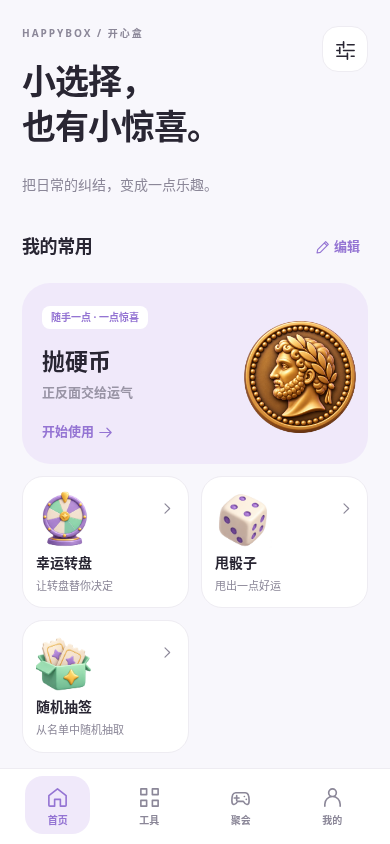
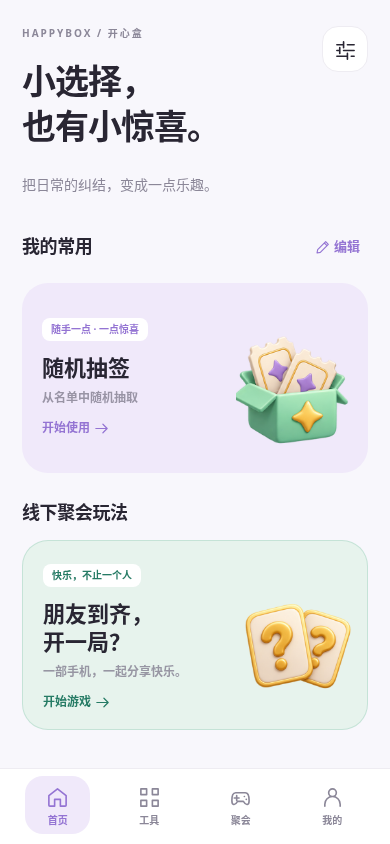
Focus home on one favorite and a prominent party card

diff --git a/app/src/main/assets/index.html b/app/src/main/assets/index.html
@@ -36,9 +36,9 @@ button:active:not(:disabled){transform:scale(.965)}
 .view.active{animation:fade .22s cubic-bezier(.2,.8,.2,1)}
 @media(prefers-reduced-motion:reduce){.view.active{animation:none}}
 </style><link rel="stylesheet" href="ui/happybox.css"><script src="ui/game-library.js"></script><script src="ui/happybox.js"></script><script src="ui/soup-game.js"></script><link rel="stylesheet" href="ui/party-games.css"><script src="ui/party-core.js"></script><script src="ui/party-library.js"></script><script src="ui/party-score.js"></script><script src="ui/party-games.js"></script></head><body><div class="app">
-<section id="home" class="view active"><header class="top"><div><div class="eyebrow">HAPPYBOX / 开心盒</div><h1>小选择，<br>也有小惊喜。</h1></div><button class="round" onclick="go('settings')" aria-label="打开设置"><span data-icon="sliders"></span></button></header><p class="sub">把日常的纠结，变成一点乐趣。</p><div class="section"><h3>我的常用</h3><button class="textbtn" onclick="go('manage')"><span data-icon="edit"></span> 编辑</button></div><div id="favArea"></div><button class="hb-discover" onclick="go('catalog')"><span>还有更多小工具，等你发现</span><span data-icon="arrow"></span></button><button class="hb-party" onclick="go('games')"><span class="hb-art art-truth"></span><span><small>快乐，不止一个人</small><strong>朋友到齐，开一局？</strong></span><span data-icon="arrow"></span></button><p class="hb-footer">让选择简单，让日常有趣。</p></section>
+<section id="home" class="view active"><header class="top"><div><div class="eyebrow">HAPPYBOX / 开心盒</div><h1>小选择，<br>也有小惊喜。</h1></div><button class="round" onclick="go('settings')" aria-label="打开设置"><span data-icon="sliders"></span></button></header><p class="sub">把日常的纠结，变成一点乐趣。</p><div class="section"><h3>我的常用</h3><button class="textbtn" onclick="go('manage')"><span data-icon="edit"></span> 编辑</button></div><div id="favArea"></div><div class="section"><h3>线下聚会玩法</h3></div><button class="fav-big hb-home-party" onclick="go('games')"><span class="hb-tag">快乐，不止一个人</span><span class="hb-art art-truth"></span><strong>朋友到齐，<br>开一局？</strong><small>一部手机，一起分享快乐。</small><span class="hb-go">开始游戏 <span data-icon="arrow"></span></span></button><p class="hb-footer">让选择简单，让日常有趣。</p></section>
 <section id="catalog" class="view"><header class="top"><div><div class="eyebrow">EVERYDAY TOOLKIT</div><h1>轻轻一点，<br>选择有了答案。</h1></div></header><p class="hint">随手小工具，给日常一点新灵感。点亮星标，收进常用。</p><div id="catalogBody"></div></section>
-<section id="manage" class="view"><button class="back" onclick="go('home')">‹ 返回首页</button><h2>编辑我的常用</h2><p class="hint">上下移动可调整顺序，第一项显示为首页大卡片。</p><div id="manageBody"></div><button class="primary" onclick="go('home')">完成编辑</button></section>
+<section id="manage" class="view"><button class="back" onclick="go('home')">‹ 返回首页</button><h2>编辑我的常用</h2><p class="hint">最多添加一个常用工具，选择新的工具会替换当前常用。</p><div id="manageBody"></div><button class="primary" onclick="go('home')">完成编辑</button></section>
 <section id="tool" class="view"><button class="back" onclick="appBack()">‹ 返回全部工具</button><div id="toolBody"></div></section>
 <section id="toolConfig" class="view"><div id="toolConfigBody"></div></section>
 <section id="games" class="view"><header class="top"><div><div class="eyebrow">PARTY GAMES</div><h1>趣味玩法 </h1></div><button class="hb-start-page" id="startPageButton" onclick="changeStartPage()">设为首页</button></header><p class="hint">一部手机，和朋友一起开启有趣的一局。</p><button class="row" onclick="openGame('wolf')"><span class="hb-art art-wolf" data-art="wolf"></span><strong>狼人杀</strong>　›</button><button class="row" onclick="openGame('truth')"><span class="hb-art art-truth" data-art="truth"></span><strong>真心话大冒险</strong>　›</button><button class="row" onclick="openGame('spy')"><span class="hb-art art-spy" data-art="spy"></span><strong>谁是卧底</strong>　›</button><button class="row" onclick="openGame('soup')"><span class="hb-art art-soup" data-art="soup"></span><span class="info"><strong>海龟汤</strong><small>看汤面，问线索，一起解开反转</small></span>›</button></section><section id="game" class="view"><button class="back" onclick="appBack()">‹ 返回趣味玩法</button><div id="gameBody"></div></section>
@@ -46,7 +46,7 @@ button:active:not(:disabled){transform:scale(.965)}
 <section id="ideas" class="view"><button class="back" onclick="go('catalog')">‹ 返回全部工具</button><div class="panel"><div class="idea-hero"><div data-art="idea"></div><h2>投稿有趣玩法</h2><p class="hint">一个好点子，也能让大家多一份快乐。欢迎分享有趣玩法、新工具创意或使用建议！</p></div><div class="hb-contact"><h3>📮 投稿邮箱</h3><p class="email">2306026551@qq.com</p><button class="secondary" onclick="copyIdeaEmail()">复制邮箱</button></div><div class="hb-contact"><h3>💬 投稿 QQ</h3><p class="email">2306026551</p><button class="secondary" onclick="copyIdeaQQ()">复制 QQ</button></div></div></section></div>
 <nav class="nav" id="bottomNav"><div class="nav-indicator" id="navIndicator"></div><button class="active" data-tab="home" onclick="go('home')"><b data-icon="home"></b>首页</button><button data-tab="catalog" onclick="go('catalog')"><b data-icon="grid"></b>工具</button><button data-tab="games" onclick="go('games')"><b data-icon="game"></b>聚会</button><button data-tab="settings" onclick="go('settings')"><b data-icon="user"></b>我的</button></nav><div id="toast" class="toast"></div>
 <script>
-'use strict';const $=id=>document.getElementById(id);const names={coin:'抛硬币',number:'随机数字',wheel:'幸运转盘',dice:'甩骰子',rps:'猜拳',draw:'随机抽签',score:'棋牌流水记账'};const emojis=Object.fromEntries(Object.keys(names).map(id=>[id,hbArt(id)]));const descriptions={coin:'正反面交给运气',number:'快速生成随机数',wheel:'让转盘替你决定',dice:'甩出一点好运',rps:'石头剪刀布',draw:'从名单中随机抽取',score:'麻将，棋牌记录每个人的流水情况。'};const toolIds=Object.keys(names);function get(k,f){try{const v=localStorage.getItem('rt_'+k);return v===null?f:JSON.parse(v)}catch(e){return f}}function save(k,v){try{localStorage.setItem('rt_'+k,JSON.stringify(v));if(typeof rtSyncLocalChanged==='function')rtSyncLocalChanged('rt_'+k);return true}catch(e){return false}}let settings=Object.assign({dark:false,vibe:true,sound:true,volume:65,speed:'normal'},get('settings',{}));let wheelItems=get('wheelItems',['吃火锅','看电影','去散步','打游戏','喝奶茶','在家休息']),drawItems=get('drawItems',['选项一','选项二','选项三']);let favorites=get('favorites',[]).filter(x=>toolIds.includes(x)),remaining=[],wheelAngle=0,busy=false,runToken=0,coinRotation=0,activeTool=null;
+'use strict';const $=id=>document.getElementById(id);const names={coin:'抛硬币',number:'随机数字',wheel:'幸运转盘',dice:'甩骰子',rps:'猜拳',draw:'随机抽签',score:'棋牌流水记账'};const emojis=Object.fromEntries(Object.keys(names).map(id=>[id,hbArt(id)]));const descriptions={coin:'正反面交给运气',number:'快速生成随机数',wheel:'让转盘替你决定',dice:'甩出一点好运',rps:'石头剪刀布',draw:'从名单中随机抽取',score:'麻将，棋牌记录每个人的流水情况。'};const toolIds=Object.keys(names);function get(k,f){try{const v=localStorage.getItem('rt_'+k);return v===null?f:JSON.parse(v)}catch(e){return f}}function save(k,v){try{localStorage.setItem('rt_'+k,JSON.stringify(v));if(typeof rtSyncLocalChanged==='function')rtSyncLocalChanged('rt_'+k);return true}catch(e){return false}}let settings=Object.assign({dark:false,vibe:true,sound:true,volume:65,speed:'normal'},get('settings',{}));let wheelItems=get('wheelItems',['吃火锅','看电影','去散步','打游戏','喝奶茶','在家休息']),drawItems=get('drawItems',['选项一','选项二','选项三']);let favorites=get('favorites',[]).filter(x=>toolIds.includes(x)).slice(0,1),remaining=[],wheelAngle=0,busy=false,runToken=0,coinRotation=0,activeTool=null;
 function rand(min,max){const range=max-min+1;if(!Number.isSafeInteger(range)||range<1||range>4294967296)throw Error('范围错误');if(window.crypto&&crypto.getRandomValues){let x=new Uint32Array(1),limit=Math.floor(4294967296/range)*range;do{crypto.getRandomValues(x)}while(x[0]>=limit);return min+x[0]%range}return min+Math.floor(Math.random()*range)}function pick(a){return a[rand(0,a.length-1)]}function duration(n){return Math.round(n*({fast:.65,normal:1,slow:1.5}[settings.speed]||1))}function vibrate(ms=25){if(!settings.vibe||window.HBParty?.active?.type==='score')return;try{if(window.RandomToolboxNative&&typeof RandomToolboxNative.vibrate==='function'){RandomToolboxNative.vibrate(Math.min(500,Math.max(1,Number(ms)||25)));return}}catch(e){}try{if(navigator.vibrate)navigator.vibrate(ms)}catch(e){}}let toastTimer;function toast(s){$('toast').textContent=s;$('toast').classList.add('show');clearTimeout(toastTimer);toastTimer=setTimeout(()=>$('toast').classList.remove('show'),2300)}function escapeHtml(s){return String(s).replace(/[&<>"']/g,c=>({'&':'&amp;','<':'&lt;','>':'&gt;','"':'&quot;',"'":'&#39;'}[c]))}function record(id,value){}
 function updateNav(){const nav=$('bottomNav'),indicator=$('navIndicator'),active=nav.querySelector('button.active');if(!nav||!indicator)return;if(!active){indicator.style.opacity='0';return}const navRect=nav.getBoundingClientRect(),buttonRect=active.getBoundingClientRect();indicator.style.opacity='1';indicator.style.width=buttonRect.width+'px';indicator.style.left=(buttonRect.left-navRect.left)+'px';indicator.style.transform='none'}function go(id){if(window.HBParty?.guardNavigate(id))return;if(document.getElementById('game')?.classList.contains('active')&&id!=='game'&&typeof party!=='undefined'&&party.type&&party.stage!=='setup'&&party.stage!=='end'){rtDialog('退出当前游戏？',party.type==='truth'?'退出后将刷新提示词库，再次开始时可能抽到之前的内容。':'退出后，本局游戏进度将不会保留。',()=>{gameTimerStop();if(party.type==='truth')clearTruthQuestions();party.stage='end';go(id)});return}if(id!=='tool'){runToken++;busy=false;stopWheelTicks()}document.querySelectorAll('.view').forEach(x=>x.classList.toggle('active',x.id===id));document.querySelectorAll('.nav button').forEach(x=>x.classList.toggle('active',x.dataset.tab===((id==='tool'||id==='toolConfig')?'catalog':id==='game'?(window.HBParty?.active?.type==='score'?'catalog':'games'):id)));if(id==='home')renderFav();if(id==='catalog')renderCatalog();if(id==='manage')renderManage();requestAnimationFrame(updateNav);window.scrollTo(0,0)}window.addEventListener('resize',updateNav);
 /* V2.4 轻柔清脆的系统提示风格：纯 Web Audio 合成，离线可用，无第三方音频素材。 */
@@ -76,9 +76,9 @@ function flipCoin(){
 function genNumber(){if(busy)return;let min=Number($('minNum').value),max=Number($('maxNum').value),count=Number($('numCount').value);if(!Number.isSafeInteger(min)||!Number.isSafeInteger(max)||min>max||max-min+1>4294967296||!Number.isInteger(count)||count<1||count>20){toast('请输入有效范围（数量1～20）');return}busy=true;let token=runToken,arr=Array.from({length:count},()=>rand(min,max)),ms=duration(800),start=Date.now(),lastSound=0;$('numBtn').disabled=true;let timer=setInterval(()=>{if(token!==runToken){clearInterval(timer);return}if(Date.now()-start>=ms){clearInterval(timer);$('numResult').textContent=arr.join('、');record('number',arr.join('、'));$('numBtn').disabled=false;busy=false;sfx('result');vibrate()}else{$('numResult').textContent=Array.from({length:count},()=>rand(min,max)).join('、');if(Date.now()-lastSound>120){sfx('number');lastSound=Date.now()}}},55)}
 function parseLines(s){return [...new Set(s.split(/\r?\n/).map(x=>x.trim()).filter(Boolean))]}const colors=['#7768ee','#f28f9a','#ffc078','#54c5ba','#71a6ef','#ad8fe9','#f6ac6c','#67cda3','#e88bca','#93b3e7','#d2a66b','#83a4a7'];function renderWheel(){let n=wheelItems.length,stops=wheelItems.map((_,i)=>`${colors[i%colors.length]} ${i*100/n}% ${(i+1)*100/n}%`).join(',');$('wheel').style.background=`conic-gradient(${stops})`;$('wheel').innerHTML=wheelItems.map((item,i)=>{let a=(i+.5)*360/n;return `<span class="wheel-label" style="transform:translate(-50%,-50%) rotate(${a}deg) translateY(-${Math.min($('wheel').clientWidth*.32,100)}px) rotate(${-a}deg)">${escapeHtml(item.slice(0,7))}</span>`}).join('');$('wheel').style.transform=`rotate(${wheelAngle}deg)`}function saveWheel(){if(busy){toast('请等待转盘停止');return false}const a=parseLines($('wheelInput').value);if(a.length<2||a.length>12){toast('请输入2～12个不重复选项');return false}if(!save('wheelItems',a)){toast('保存失败，请检查本机存储空间');return false}wheelItems=a;wheelAngle=0;if($('wheel'))renderWheel();return true}function spinWheel(){if(busy)return;busy=true;let token=runToken,n=wheelItems.length,index=rand(0,n-1),target=(360-(index+.5)*360/n)%360,current=((wheelAngle%360)+360)%360,delta=(target-current+360)%360+2160,ms=duration(4500);wheelAngle+=delta;$('wheel').style.setProperty('--dur',ms+'ms');$('wheel').style.transform=`rotate(${wheelAngle}deg)`;$('spinBtn').disabled=true;$('wheelResult').textContent='旋转中…';vibrate();wheelTicks(ms,n);setTimeout(()=>{if(token!==runToken)return;stopWheelTicks();let value=wheelItems[index];$('wheelResult').textContent=value;record('wheel',value);$('spinBtn').disabled=false;busy=false;sfx('result');vibrate()},ms+50)}
 const layouts={1:[[2,2]],2:[[1,1],[3,3]],3:[[1,1],[2,2],[3,3]],4:[[1,1],[1,3],[3,1],[3,3]],5:[[1,1],[1,3],[2,2],[3,1],[3,3]],6:[[1,1],[1,2],[1,3],[3,1],[3,2],[3,3]]};function showDice(vals){if(!$('diceRow'))return;$('diceRow').innerHTML=vals.map(v=>`<div class="die">${layouts[v].map(([r,c])=>`<i class="pip" style="grid-row:${r};grid-column:${c}"></i>`).join('')}</div>`).join('')}function rollDice(){if(busy)return;let count=Number($('diceCount').value);if(!Number.isInteger(count)||count<1||count>6){toast('请选择1～6颗骰子');return}busy=true;let token=runToken,ms=duration(1900),start=performance.now(),vals=Array.from({length:count},()=>rand(1,6));$('diceBtn').disabled=true;$('diceResult').textContent='点数变化中…';vibrate();function tick(){if(token!==runToken)return;let elapsed=performance.now()-start;if(elapsed>=ms){showDice(vals);let sum=vals.reduce((a,b)=>a+b,0);$('diceResult').textContent=`总点数：${sum}`;record('dice',`${vals.join('+')} = ${sum}`);$('diceBtn').disabled=false;busy=false;sfx('dice');vibrate();return}showDice(Array.from({length:count},()=>rand(1,6)));sfx('dice');setTimeout(tick,Math.min(75+Math.pow(elapsed/ms,3)*260,Math.max(1,ms-elapsed)))}tick()}function playRps(){if(busy)return;busy=true;let token=runToken,opts=[['','石头'],['','剪刀'],['','布']],ms=duration(950),i=0;$('rpsBtn').disabled=true;$('rpsIcon').classList.add('shaking');$('rpsResult').textContent='出拳中…';sfx('rps');let timer=setInterval(()=>{if(token!==runToken){clearInterval(timer);return}$('rpsIcon').innerHTML=hbHand(opts[i++%3][1])},85);setTimeout(()=>{clearInterval(timer);if(token!==runToken)return;let x=pick(opts);$('rpsIcon').classList.remove('shaking');$('rpsIcon').innerHTML=hbHand(x[1]);$('rpsResult').textContent=x[1];record('rps',x[1]);$('rpsBtn').disabled=false;busy=false;sfx('rps');vibrate()},ms)}function saveDraw(){if(busy){toast('请等待抽签结束');return false}const a=parseLines($('drawInput').value);if(a.length<2||a.length>200){toast('请输入2～200个不重复选项');return false}if(!save('drawItems',a)){toast('保存失败，请检查本机存储空间');return false}drawItems=a;remaining=[];return true}function drawOne(){if(busy)return;let noRepeat=$('noRepeat').checked;if(!noRepeat)remaining=[];else if(!remaining.length)remaining=[...drawItems];let source=noRepeat?remaining:drawItems,index=rand(0,source.length-1),value=source[index],token=runToken,ms=duration(900);busy=true;$('drawBtn').disabled=true;$('drawResult').textContent='洗牌中…';$('drawInner').classList.remove('revealed');$('drawCard').classList.add('shuffling');sfx('paper');setTimeout(()=>{if(token!==runToken)return;$('drawCard').classList.remove('shuffling');$('drawFront').textContent=value;$('drawInner').classList.add('revealed');$('drawResult').textContent=value;if(noRepeat)remaining.splice(index,1);record('draw',value);$('drawBtn').disabled=false;busy=false;sfx('paper');vibrate();if(noRepeat&&!remaining.length)toast('本轮抽完，下次自动重置')},ms)}
-function setSetting(k,v){settings[k]=v;save('settings',settings);if(k==='dark'){document.body.classList.toggle('dark',!!v);try{RandomToolboxNative.setDarkMode(!!v)}catch(e){}}}function initSettings(){$('darkToggle').checked=!!settings.dark;$('vibeToggle').checked=!!settings.vibe;$('soundToggle').checked=!!settings.sound;$('volumeRange').value=settings.volume;$('speedSelect').value=settings.speed;document.body.classList.toggle('dark',!!settings.dark);try{RandomToolboxNative.setDarkMode(!!settings.dark)}catch(e){}}function persistFav(){save('favorites',favorites);renderFav();renderCatalog();renderManage()}function toggleFav(id){favorites=favorites.includes(id)?favorites.filter(x=>x!==id):[...favorites,id];persistFav();toast(favorites.includes(id)?'已添加到常用':'已取消常用')}function moveFav(id,d){let i=favorites.indexOf(id),j=i+d;if(j<0||j>=favorites.length)return;[favorites[i],favorites[j]]=[favorites[j],favorites[i]];persistFav()}function renderFav(){let box=$('favArea');if(!favorites.length){box.innerHTML=`<div class="hb-welcome"><span class="hb-art art-wheel"></span><span class="hb-tag">从喜欢的开始</span><h2>常用的小工具，<br>放在最顺手的地方。</h2><p>挑选你的常用，每次打开一眼找到。</p><button class="primary" onclick="go('catalog')">添加我的常用 ${hbIcon('plus')}</button></div>`;return}let [first,...rest]=favorites;box.innerHTML=`<button class="fav-big" onclick="openTool('${first}')"><span class="hb-tag">随手一点 · 一点惊喜</span>${hbArt(first)}<strong>${names[first]}</strong><small>${descriptions[first]}</small><span class="hb-go">开始使用 ${hbIcon('arrow')}</span></button><div class="fav-grid">${rest.map(id=>`<button class="fav-small" onclick="openTool('${id}')">${hbArt(id)}<strong>${names[id]}</strong><small>${descriptions[id]}</small>${hbIcon('chevron')}</button>`).join('')}</div>`}
+function setSetting(k,v){settings[k]=v;save('settings',settings);if(k==='dark'){document.body.classList.toggle('dark',!!v);try{RandomToolboxNative.setDarkMode(!!v)}catch(e){}}}function initSettings(){$('darkToggle').checked=!!settings.dark;$('vibeToggle').checked=!!settings.vibe;$('soundToggle').checked=!!settings.sound;$('volumeRange').value=settings.volume;$('speedSelect').value=settings.speed;document.body.classList.toggle('dark',!!settings.dark);try{RandomToolboxNative.setDarkMode(!!settings.dark)}catch(e){}}function toggleFav(id){if(!toolIds.includes(id))return;const next=favorites.includes(id)?[]:[id],replacing=favorites.length&&!favorites.includes(id);if(!save('favorites',next)){toast('常用保存失败，请重试');return}favorites=next;renderFav();renderCatalog();renderManage();toast(next.length?(replacing?'已更换常用工具':'已添加到常用'):'已取消常用')}function renderFav(){let box=$('favArea');if(!favorites.length){box.innerHTML=`<div class="hb-welcome"><span class="hb-art art-wheel"></span><span class="hb-tag">从喜欢的开始</span><h2>常用的小工具，<br>放在最顺手的地方。</h2><p>挑选你的常用，每次打开一眼找到。</p><button class="primary" onclick="go('catalog')">添加我的常用 ${hbIcon('plus')}</button></div>`;return}let first=favorites[0];box.innerHTML=`<button class="fav-big" onclick="openTool('${first}')"><span class="hb-tag">随手一点 · 一点惊喜</span>${hbArt(first)}<strong>${names[first]}</strong><small>${descriptions[first]}</small><span class="hb-go">开始使用 ${hbIcon('arrow')}</span></button>`}
 function renderCatalog(){$('catalogBody').innerHTML='<div class="hb-tools">'+toolIds.map(id=>`<article class="hb-tool-card"><button class="hb-tool-open" onclick="openTool('${id}')">${hbArt(id)}<strong>${names[id]}</strong><small>${descriptions[id]}</small></button><button class="hb-fav ${favorites.includes(id)?'selected':''}" onclick="toggleFav('${id}')" aria-label="${favorites.includes(id)?'取消常用':'加入常用'}：${names[id]}" aria-pressed="${favorites.includes(id)}">${hbIcon('star')}</button></article>`).join('')+'</div>'+`<button class="hb-party hb-idea" onclick="go('ideas')">${hbArt('idea')}<span><strong>点击投稿有趣玩法</strong><small>你的灵感，也能变成大家的快乐</small></span>${hbIcon('chevron')}</button>`}
-function renderManage(){$('manageBody').innerHTML=favorites.length?favorites.map((id,i)=>`<div class="row"><span class="icon">${emojis[id]}</span><div class="info"><strong>${names[id]}</strong><small>${i===0?'首页主卡片':'常用工具'}</small></div><button class="action" ${i===0?'disabled':''} onclick="moveFav('${id}',-1)">↑</button><button class="action" ${i===favorites.length-1?'disabled':''} onclick="moveFav('${id}',1)">↓</button><button class="action rt-favorite-star" onclick="toggleFav('${id}')">×</button></div>`).join(''):'<div class="empty">还没有常用工具，请到「全部工具」添加。</div>'}
+function renderManage(){const id=favorites[0];$('manageBody').innerHTML=id?`<div class="row"><span class="icon">${emojis[id]}</span><div class="info"><strong>${names[id]}</strong><small>当前唯一常用</small></div><button class="action" onclick="toggleFav('${id}')">移除</button></div><button class="primary" onclick="go('catalog')">更换常用工具</button>`:'<div class="empty">还没有常用工具，请到「全部工具」添加。</div>'}
 const IDEA_EMAIL='2306026551@qq.com',IDEA_QQ='2306026551';
 async function copyIdeaContact(text,label){
  try{if(navigator.clipboard&&window.isSecureContext){await navigator.clipboard.writeText(text);toast(label+'已复制');return}}catch(e){}

diff --git a/app/src/main/assets/ui/party-score.js b/app/src/main/assets/ui/party-score.js
@@ -50,7 +50,7 @@
  function transfer(id){amountDialog(id,1,null,true)}
  function opening(){
   const g=board();if(!g||g.closed)return;
-  P().modal(g.unit==='元'?'添加已有金额':'添加已有额度',`<p class="hint">填写每位玩家开始前已有的${g.unit==='元'?'金额':'积分'}。初始${g.unit==='元'?'金额':'额度'}计入余额，不计入净增减；再次保存只更新原值，不会重复累加。</p>${g.players.filter(p=>!p.archived).map(p=>`<label>${e(p.name)}<input class="hs-opening" data-player="${e(p.id)}" type="number" step="0.01" inputmode="decimal" min="0" value="${(C.initials(g)[p.id]||0)/100}"></label>`).join('')}`,()=>{
+  P().modal(g.unit==='元'?'添加现有金额':'添加已有额度',`<p class="hint">填写每位玩家开始前已有的${g.unit==='元'?'金额':'积分'}。初始${g.unit==='元'?'金额':'额度'}计入余额，不计入净增减；再次保存只更新原值，不会重复累加。</p>${g.players.filter(p=>!p.archived).map(p=>`<label>${e(p.name)}<input class="hs-opening" data-player="${e(p.id)}" type="number" step="0.01" inputmode="decimal" min="0" value="${(C.initials(g)[p.id]||0)/100}"></label>`).join('')}`,()=>{
    const values=[...document.querySelectorAll('.hs-opening')].map(input=>{const text=input.value.trim();if(!text)throw Error('请填写初始额度，没有则填 0');const n=Number(text)===0&&/^0+(\.0{1,2})?$/.test(text)?0:C.amount(text);if(n<0)throw Error('初始额度不能为负数');return {player:input.dataset.player,amount:n}});
    return done(mutate(d=>{for(const v of values){d.entries=d.entries.filter(x=>!(x.kind==='opening'&&x.legs[0].player===v.player));if(v.amount)d.entries.push({id:P().uid(),at:Date.now(),kind:'opening',note:d.unit==='元'?'初始金额':'初始额度',legs:[v]})}if(d.entries.length>5000)throw Error('本局记录已满，请新建一局')}));
   });
@@ -77,7 +77,7 @@
    html+=`<div class="hp-heading"><h3>${e(g.title)} · 详细流水</h3>${b('返回记分','showBoard()','hp-small')}</div><div class="hp-ledger">${g.entries.length?[...g.entries].reverse().map(x=>`<article><div class="hp-ledger-lines">${x.legs.map(l=>`<p><strong>${e(name(g,l.player))}</strong><span class="${l.amount<0?'hp-negative':'hp-positive'}">${fmt(l.amount)} ${e(g.unit)}</span></p>`).join('')}</div><small>${new Date(x.at).toLocaleString()}${x.note?' · '+e(x.note):''}</small>${g.closed?'':`<div class="hp-two">${b('修改',`editEntry('${e(x.id)}')`,'hp-small')}${b('删除',`deleteEntry('${e(x.id)}')`,'hp-small')}</div>`}</article>`).join(''):'<p class="hint">还没有记录，返回记分区添加第一笔。</p>'}</div>`;
   }else{
    const total=C.totals(g),initial=C.initials(g);
-   if(!clean)html+=`<div class="hp-heading"><div><h3>${e(g.title)}</h3><small>${g.closed?'历史场次 · 只读':'独立记分'}</small></div>${b('纯净模式','pure()','hp-small')}</div>${g.closed?'':b(g.unit==='元'?'添加已有金额':'添加已有额度','opening()','secondary')}`;
+   if(!clean)html+=`<div class="hp-heading"><div><h3>${e(g.title)}</h3><small>${g.closed?'历史场次 · 只读':'独立记分'}</small></div>${b('纯净模式','pure()','hp-small hp-pure-prominent')}</div>${g.closed?'':b(g.unit==='元'?'添加现有金额':'添加已有额度','opening()','secondary hp-opening-prominent')}`;
    html+=`<div class="hp-score-players">${g.players.filter(p=>!p.archived).map(p=>`<article class="hp-score-card"><div class="hp-player-title"><button class="hp-name" ${clean||g.closed?'disabled':`onclick="HBScore.editPlayer('${e(p.id)}')"`}>${e(p.name)}${clean||g.closed?'':hbIcon('edit')}</button><small class="hp-initial">初始${g.unit==='元'?'金额':'额度'} ${fmt(initial[p.id]||0).replace(/^\+/, '')}</small>${g.closed||clean?'':b('移除',`removePlayer('${e(p.id)}')`,'hp-small')}</div><div class="hp-balance-row"><strong class="hp-total">${fmt(total[p.id]).replace(/^\+/, '')}<small>${e(g.unit)}</small></strong><span class="hp-net ${(total[p.id]-initial[p.id])<0?'hp-negative':'hp-positive'}">${fmt(total[p.id]-initial[p.id])}</span></div>${g.closed?'':`<div class="hp-two">${b(g.unit==='元'?'−':'− 减分',`amountDialog('${e(p.id)}',-1)`,g.unit==='元'?'secondary hp-money-sign':'secondary')}${b(g.unit==='元'?'+':'+ 加分',`amountDialog('${e(p.id)}',1)`,g.unit==='元'?'primary hp-money-sign':'primary')}</div>${b(g.unit==='元'?'向其他玩家转账':'转移积分',`transfer('${e(p.id)}')`,'hp-transfer')}`}</article>`).join('')}</div>`;
    if(!clean){
    if(g.players.some(p=>p.archived))html+=`<details class="hp-records"><summary>已移除玩家 · 历史累计保留</summary>${g.players.filter(p=>p.archived).map(p=>`<p>${e(p.name)}：${fmt(total[p.id])} ${e(g.unit)}</p>`).join('')}</details>`;

diff --git a/app/src/main/assets/ui/happybox.css b/app/src/main/assets/ui/happybox.css
@@ -122,3 +122,17 @@ body{font-family:-apple-system,BlinkMacSystemFont,'Noto Sans',sans-serif;line-he
 .hp-two .hp-money-sign{font-size:32px;line-height:1.15;min-height:56px;font-weight:500;padding:6px 12px}
 @media(max-width:360px){#games .top h1{font-size:27px}.hb-start-page{padding:9px;font-size:11px}}
 .hp-score-pure .hp-score{overflow:visible}
+/* One common tool and one equally prominent party entry. */
+#home .fav-big{height:190px;min-height:190px;padding:20px;border-radius:26px}
+#home .fav-big>.hb-art{width:118px;height:126px;right:14px;top:42px}
+#home .fav-big .hb-tag{margin-bottom:8px}
+#home .fav-big strong{font-size:22px;line-height:1.3;margin:4px 0 8px}
+#home .fav-big small{font-size:12px;line-height:1.4}
+#home .fav-big .hb-go{margin-top:10px;font-size:12px}
+#home .hb-home-party{background:var(--mint);border:1px solid #78bfa44d}
+#home .hb-home-party .hb-tag{color:#267b65}
+#home .hb-home-party .hb-go{color:#267b65;font-weight:700}
+.dark #home .hb-home-party .hb-tag,.dark #home .hb-home-party .hb-go{color:#83d9bb}
+.hp-small.hp-pure-prominent{background:var(--accent);color:#fff;font-size:14px;font-weight:800;padding:12px 17px;box-shadow:0 4px 12px #8060bd25}
+.hp-game>.secondary.hp-opening-prominent{background:var(--tint);border:1px solid var(--accent);color:var(--accent);font-weight:750;font-size:16px}
+@media(max-width:360px){#home .fav-big{padding:18px}#home .fav-big strong{font-size:20px}#home .fav-big>.hb-art{width:99px;height:116px;right:10px;top:48px}#home .fav-big small{max-width:58%;font-size:11px}}

diff --git a/scripts/sync.js b/scripts/sync.js
@@ -40,7 +40,7 @@ function rtSyncApply(uid,values){
  const previousDraw=JSON.stringify(drawItems);
  settings=Object.assign({dark:false,vibe:true,sound:true,volume:65,speed:'normal'},get('settings',{}));
  wheelItems=get('wheelItems',['吃火锅','看电影','去散步','打游戏','喝奶茶','在家休息']);drawItems=get('drawItems',['选项一','选项二','选项三']);
- favorites=get('favorites',[]).filter(x=>toolIds.includes(x));if(JSON.stringify(drawItems)!==previousDraw)remaining=[];
+ favorites=get('favorites',[]).filter(x=>toolIds.includes(x)).slice(0,1);if(JSON.stringify(drawItems)!==previousDraw)remaining=[];
  initSettings();renderFav();renderCatalog();renderManage();rtAccountRefresh();
  if(document.querySelector('.view.active')?.id==='tool'&&activeTool==='wheel'&&!busy)renderWheel();
 }

diff --git a/scripts/check_ui.py b/scripts/check_ui.py
@@ -21,12 +21,22 @@ with sync_playwright() as pw:
   results.append(label)
  page.evaluate("localStorage.clear();setSetting('speed','fast');setSetting('sound',false);toggleFav('coin');toggleFav('wheel');toggleFav('dice');toggleFav('draw');go('home')")
  page.wait_for_timeout(100);page.evaluate("document.getElementById('toast').classList.remove('show')");page.wait_for_timeout(250);page.screenshot(path=str(OUT/'home.png'),full_page=False)
- check('Four favorites rendered',page.locator('#favArea button').count()==4)
+ check('Only one favorite rendered after repeated selections',page.locator('#favArea button').count()==1 and page.evaluate("JSON.stringify(favorites)===JSON.stringify(['draw'])"))
+ a=page.locator('#favArea .fav-big').bounding_box();partyCard=page.locator('.hb-home-party').bounding_box()
+ check('Party entry matches common card dimensions',abs(a['width']-partyCard['width'])<1 and abs(a['height']-partyCard['height'])<1)
+ check('Home replaces discovery line with party heading',page.locator('#home .hb-discover').count()==0 and page.locator('#home').get_by_role('heading',name='线下聚会玩法').count()==1)
+ check('Party entry retains original illustration',page.locator('.hb-home-party .art-truth image').get_attribute('href')=='ui/toolkit.png')
+ page.locator('.hb-home-party').click();check('Large party entry opens games',page.locator('#games').evaluate("el=>el.classList.contains('active')"));page.evaluate("go('home')")
+ page.evaluate("toggleFav('coin');toggleFav('wheel')");check('Selecting new favorite replaces previous favorite',page.evaluate("JSON.stringify(favorites)===JSON.stringify(['wheel'])&&JSON.parse(localStorage.getItem('rt_favorites')).length===1"))
+ page.evaluate("toggleFav('wheel')");check('Current favorite can be removed',page.evaluate('favorites.length===0') and page.locator('.hb-welcome').count()==1)
+ page.evaluate("localStorage.setItem('rt_favorites',JSON.stringify(['coin','wheel','dice']))");page.reload();page.wait_for_timeout(100)
+ check('Legacy multi-favorite list shows first choice only',page.evaluate("JSON.stringify(favorites)===JSON.stringify(['coin'])") and page.locator('#favArea button').count()==1)
+ page.evaluate("go('manage')");check('Single favorite manager has no sorting arrows',page.locator('#manageBody').inner_text().find('↑')==-1 and '更换常用工具' in page.locator('#manageBody').inner_text());page.evaluate("toggleFav('draw');go('home')")
  check('Music card removed',page.locator('#musicWidget,audio').count()==0)
- check('Favorites main card is compact',page.locator('.fav-big').bounding_box()['height']<200)
+ check('Favorites main card is compact',page.locator('#favArea .fav-big').bounding_box()['height']<200)
  check('Tools title is compact',page.evaluate("parseFloat(getComputedStyle(document.querySelector('#catalog h1')).fontSize)<=25"))
 
- page.reload();page.wait_for_timeout(100);check('Favorites survive reload',page.locator('#favArea button').count()==4)
+ page.reload();page.wait_for_timeout(100);check('Favorites survive reload',page.locator('#favArea button').count()==1)
  page.evaluate("go('catalog')");check('Seven tool cards',page.locator('.hb-tool-card').count()==7)
  page.evaluate("setSetting('dark',true)");page.wait_for_timeout(100);page.screenshot(path=str(OUT/'tools-dark.png'),full_page=False)
  check('Dark mode applied',page.locator('body').evaluate("el=>el.classList.contains('dark')"))
@@ -35,6 +45,11 @@ with sync_playwright() as pw:
   for route in ['home','catalog','games','settings','manage']:
    page.evaluate(f"go('{route}')");page.wait_for_timeout(35)
    check(f'{w}px {route}: no horizontal overflow',page.evaluate('document.documentElement.scrollWidth <= innerWidth'))
+ page.evaluate("window.rtLoggedIn=true;HBParty.open('score');HBScore.create()");page.locator('#rtAccept').click()
+ check('Pure mode control has strong contrast and weight',page.locator('.hp-pure-prominent').evaluate("el=>Number(getComputedStyle(el).fontWeight)>=700&&getComputedStyle(el).backgroundColor!==getComputedStyle(document.body).backgroundColor"))
+ check('Current amount button highlighted',page.locator('.hp-opening-prominent').inner_text()=='添加现有金额' and page.locator('.hp-opening-prominent').evaluate("el=>getComputedStyle(el).backgroundColor!=='rgba(0, 0, 0, 0)'"))
+ page.evaluate('HBScore.opening()');check('Opening amount dialog uses current wording',page.locator('#rtModalShade h3').inner_text()=='添加现有金额');page.locator('#rtCancel').click()
+ page.evaluate("HBParty.active.stage='end';party.stage='end';go('catalog');window.rtLoggedIn=false;rtStatus()")
  page.set_viewport_size({'width':390,'height':844});page.evaluate("setSetting('dark',false)")
  page.evaluate("openTool('wheel')")
  for width,height in [(390,844),(360,640),(320,568)]:

diff --git a/scripts/check_party_ui.py b/scripts/check_party_ui.py
@@ -135,12 +135,12 @@ with sync_playwright() as pw:
  # Version 2.9: money labels, common tools, start page preference and sticky navigation.
  page.evaluate("party.stage='end';HBParty.active.stage='end';go('catalog')")
  page.locator('#catalog').get_by_role('button',name='加入常用：棋牌流水记账',exact=True).click();page.evaluate("go('home')")
- check('Ledger appears as first common tool','棋牌流水记账' in page.locator('.fav-big').inner_text())
- page.locator('.fav-big').click();check('Common ledger card opens real journal',page.evaluate("HBParty.active.type==='score'&&HBParty.active.page==='list'"))
+ check('Ledger appears as first common tool','棋牌流水记账' in page.locator('#favArea .fav-big').inner_text())
+ page.locator('#favArea .fav-big').click();check('Common ledger card opens real journal',page.evaluate("HBParty.active.type==='score'&&HBParty.active.page==='list'"))
  page.reload();page.wait_for_timeout(100);check('Ledger favorite retained after reload',page.evaluate("favorites.includes('score')"))
  check('No music card or audio element remains',page.locator('#musicWidget,audio').count()==0)
  clean_open('score');act('HBScore.create()');check('Money is default unit',page.locator('#hsUnit').input_value()=='元');accept();a,b=[p['id'] for p in store()['boards'][0]['players']]
- check('Money board uses money labels',page.locator('#gameBody').get_by_text('添加已有金额',exact=True).count()==1 and page.locator('.hp-money-sign').count()==4 and page.locator('.hp-transfer').first.inner_text()=='向其他玩家转账')
+ check('Money board uses money labels',page.locator('#gameBody').get_by_text('添加现有金额',exact=True).count()==1 and page.locator('.hp-money-sign').count()==4 and page.locator('.hp-transfer').first.inner_text()=='向其他玩家转账')
  check('Board reminder is visible without old storage sentence','🔴' in page.locator('.hp-ledger-notice').inner_text() and '账目只保存在本机' not in page.locator('#gameBody').inner_text())
  act('HBScore.transfer('+json.dumps(a)+')');check('Transfer uses money label and round wording','转移金额' in page.locator('.hp-modal').inner_text() and page.locator('#hsNote').get_attribute('placeholder')=='如：第 2 局');page.locator('#rtCancel').click()
  act('HBScore.pure()');page.set_viewport_size({'width':320,'height':568});page.evaluate('window.scrollTo(0,600)');page.wait_for_timeout(300);pureback=page.locator('.hp-pure-back').bounding_box();check('Pure Back remains visible on scroll',pureback['y']>=-1 and pureback['y']<64);page.evaluate('appBack()');page.set_viewport_size({'width':390,'height':844})

diff --git a/docs/OFFLINE-PARTY-GAMES.md b/docs/OFFLINE-PARTY-GAMES.md
@@ -75,3 +75,13 @@ python3 scripts/check_release.py
 长页面使用吸顶返回键，包含工具配置、游戏、记账与纯净模式，以及滚动账号／资料面板；遵循顶部安全区域，不覆盖任务全屏展示。纯净模式解除内部 overflow 限制，以保证其返回键也能吸顶。
 
 2.9 本地验证：123 项玩法／新功能浏览器检查、197 项界面回归、25 项规则／词库、21 个同步模拟场景及 7 项发布逻辑检查通过。覆盖金额默认值、积分文案保留、收藏重启后恢复、收藏入口打开记账、首页设置确认／取消／恢复、Android 返回路径以及普通／纯净页滚动后的返回键可见性。
+
+### 首页卡片与单个常用
+
+首页移除“还有更多小工具”链接，改为“线下聚会玩法”标题。聚会入口与已选择的常用工具卡片采用相同宽度、190px 高度和圆角；保留原真心话插画，用薄荷色与紫色区分入口。
+
+常用工具最多一个，新选择替换旧选择，再次点击当前星标可移除。旧版／云端多项常用只展示原排序第一项；读取时保留原备份内容，用户主动更换时才保存单项列表。管理页删除排序操作，提供更换／移除。同步协议、账号接口与账目数据不变。
+
+记账页纯净模式按钮加深背景和字重；金额录入改为“添加现有金额”，配合浅色背景、描边与加粗文字。
+
+本次首页调整检查：208 项界面／交互回归、22 个同步模拟场景、25 项规则／词库与 7 项发布逻辑检查通过，浏览器无未捕获异常。覆盖卡片同尺寸、原图标保留、聚会跳转、常用替换／移除、旧多项常用的第一项展示、管理页精简，以及两个记账按钮与新文案。

diff --git a/docs/UI-RELEASE-NOTES.md b/docs/UI-RELEASE-NOTES.md
@@ -1,9 +1,11 @@
 开心盒 2.9 测试版：
 
-- 棋牌流水记账支持加入常用、金额默认单位、大号加减操作与玩家间转账。
+- 棋牌流水记账支持设为唯一常用、金额默认单位、大号加减操作与玩家间转账。
 - 保留初始金额、余额、净增减及纯净模式，兼容之前保存的场次与流水。
 - 移除首页音乐卡片；趣味玩法可以设为下次启动的首页，并支持恢复。
 - 长页面返回键吸顶，方便滚动后直接返回。
+- 首页常用工具限制为一个，线下聚会入口与常用卡片同尺寸，保留原有插画。
+- 纯净模式与“添加现有金额”操作更醒目。
 - 保留所有现有随机工具、趣味玩法、账号和设置；不修改云端配置或数据结构。
 
 此提交只构建测试 APK；预览发布仍需手动选择，未自动合并 main 或发布 Release。
